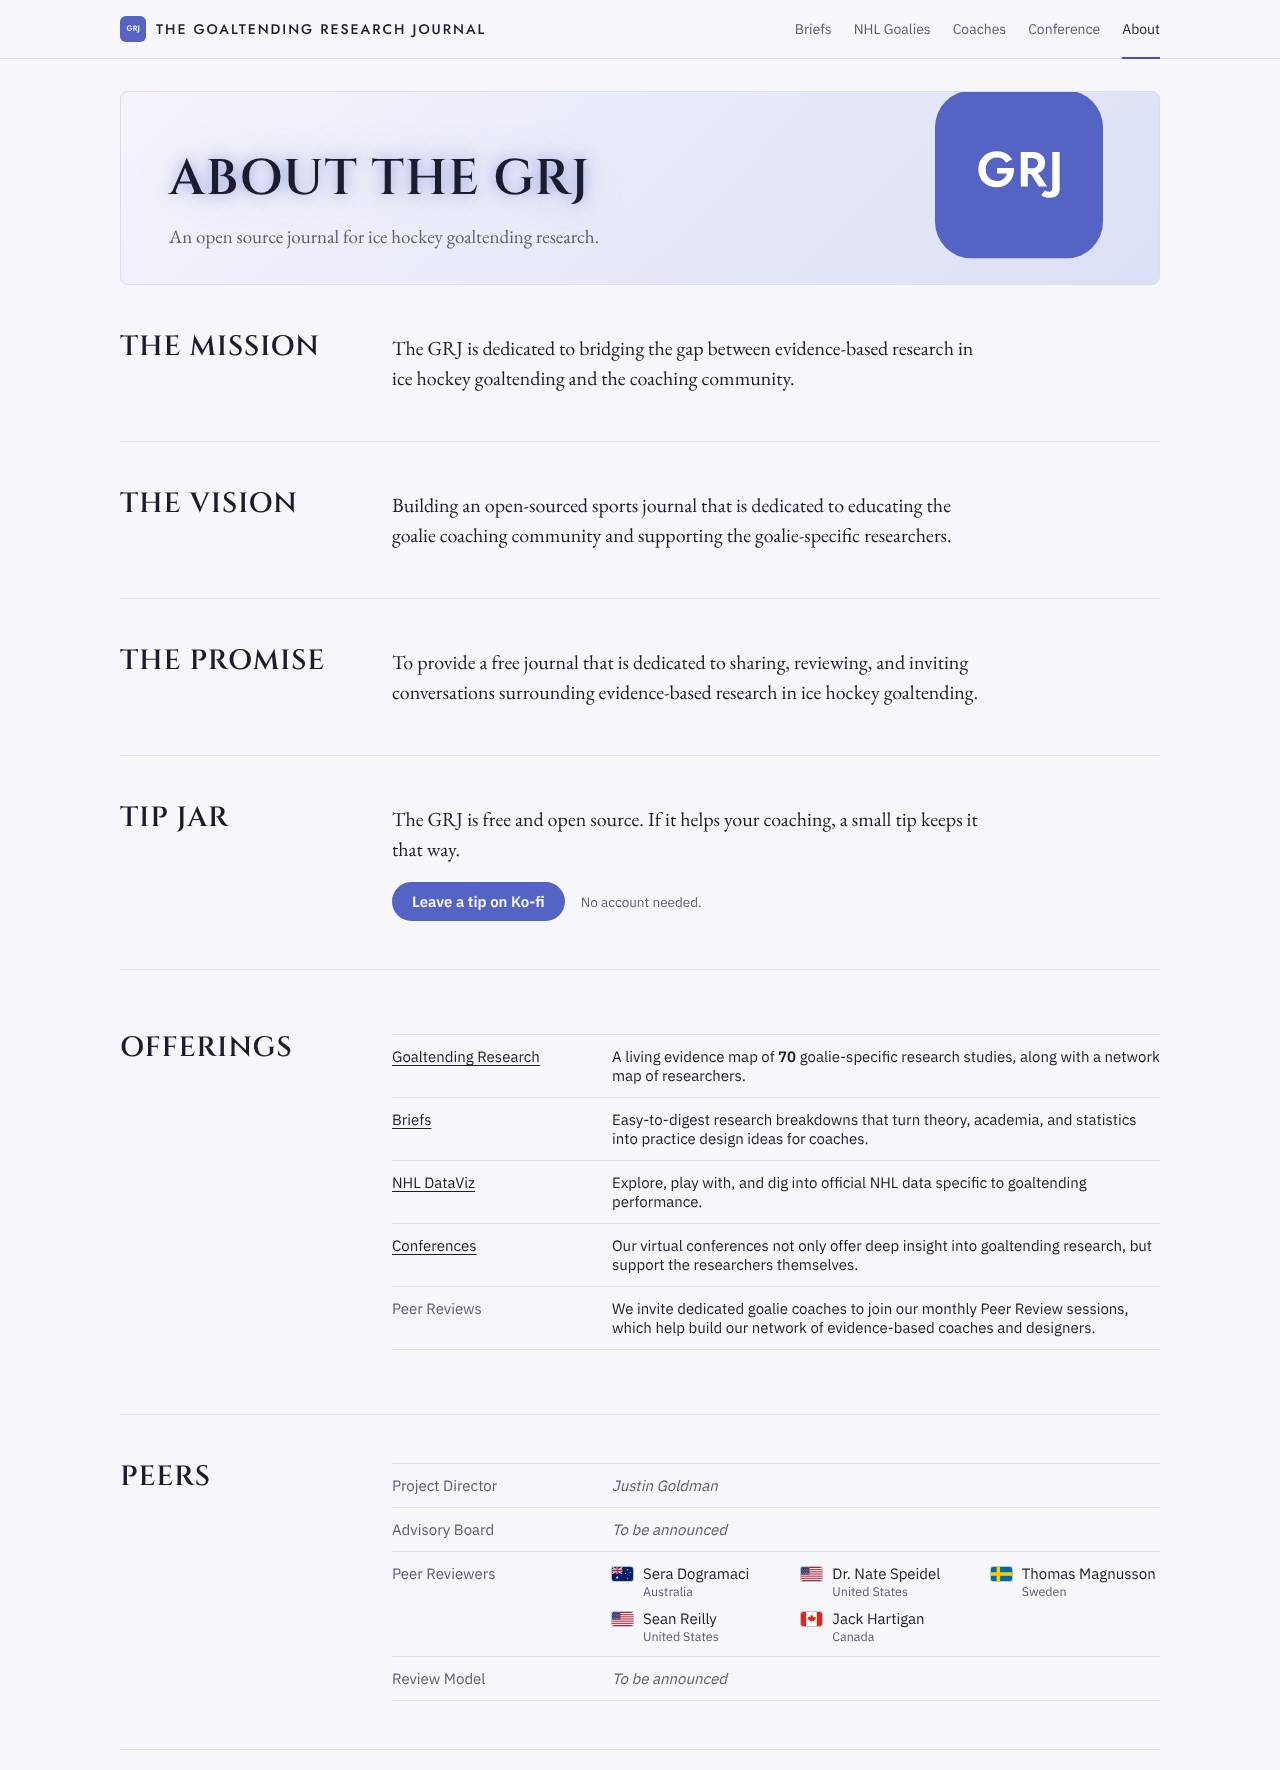
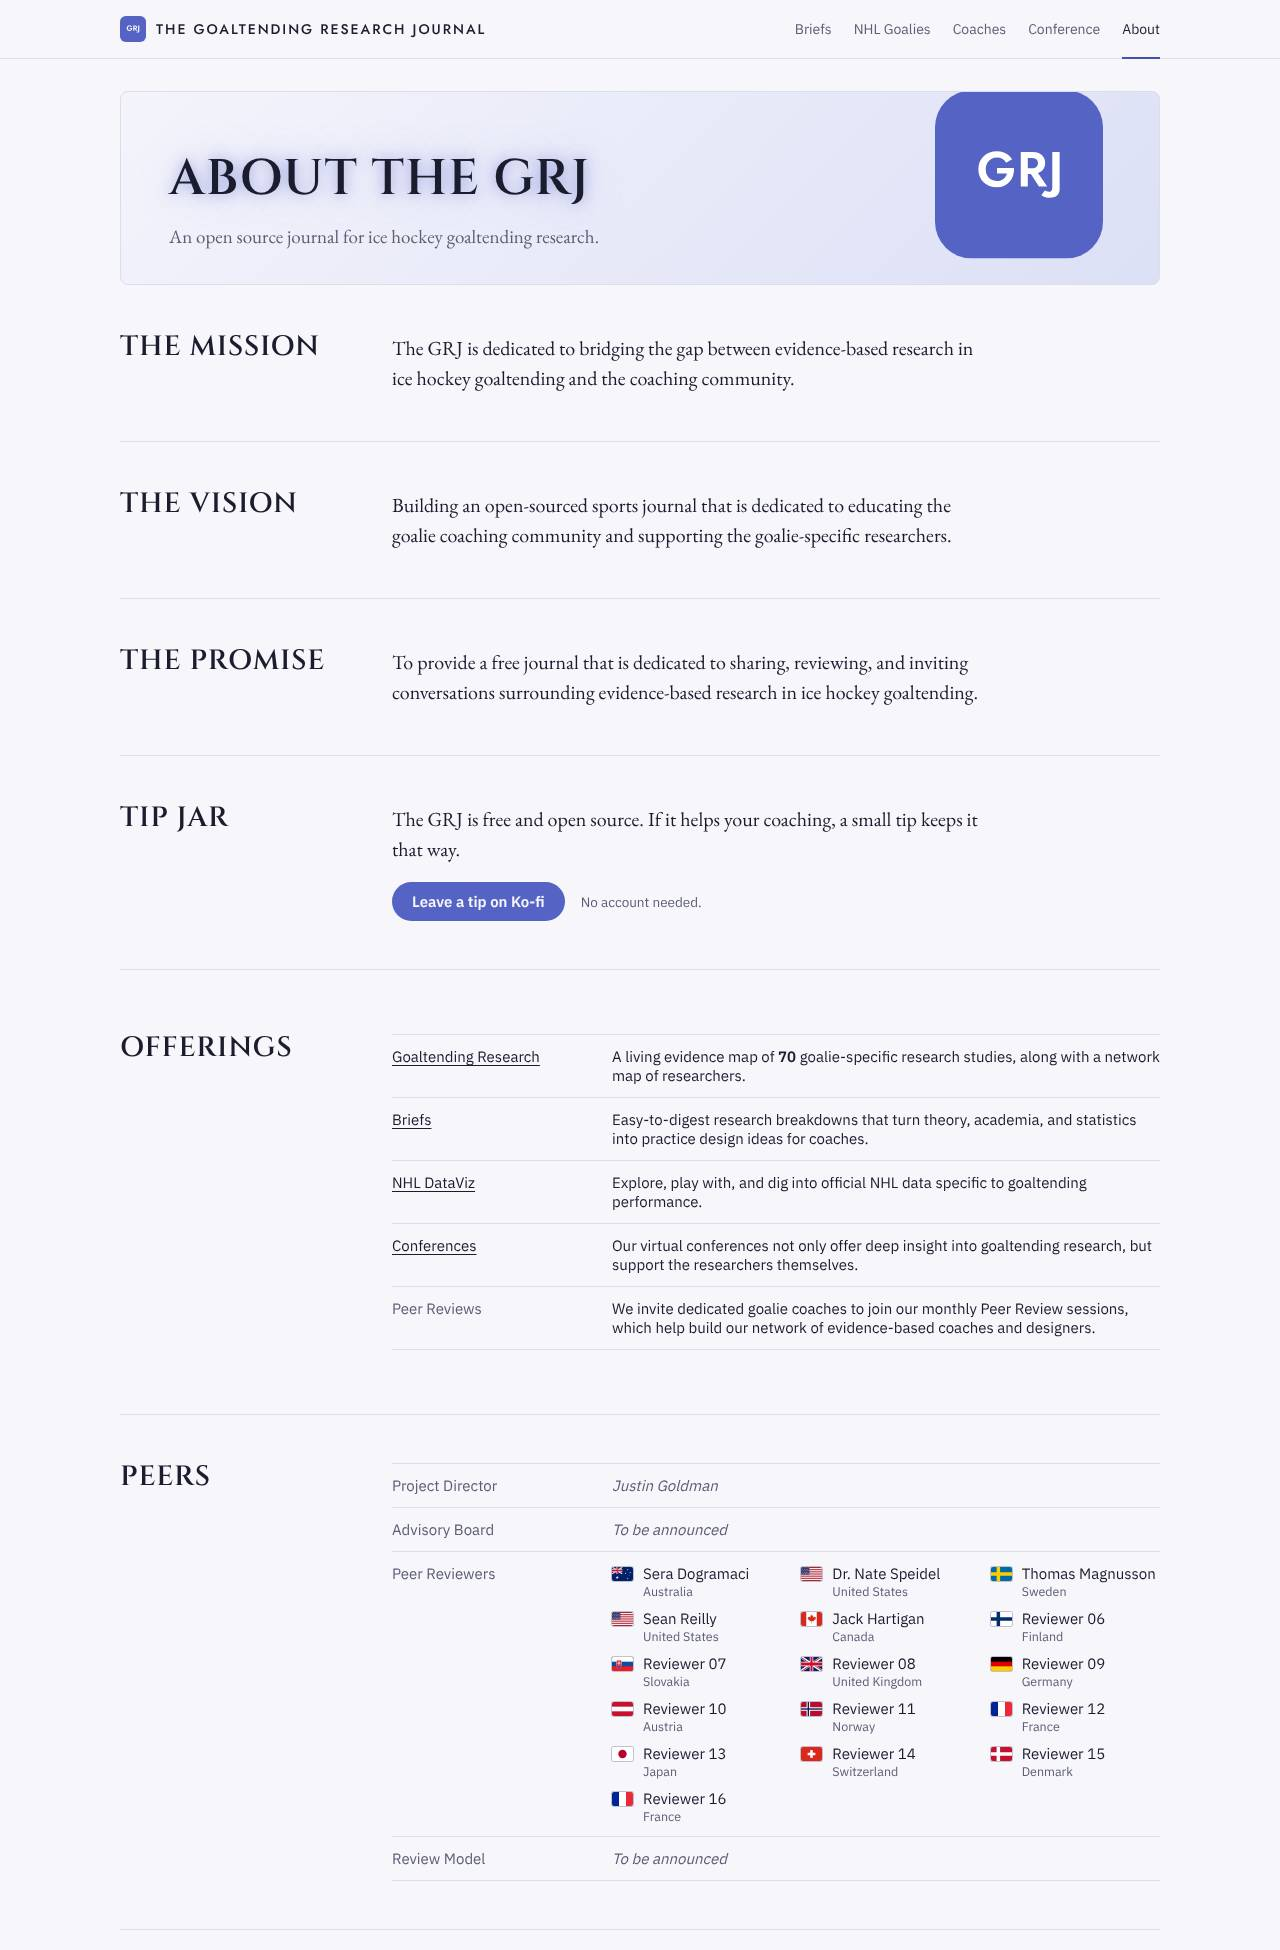
About: keep the placeholder reviewers and flags beside the five named ones
Claude-Session: https://claude.ai/code/session_01Y4memTcNRCe5HDjMuxoTXv

diff --git a/about.html b/about.html
@@ -258,6 +258,17 @@ footer { border-top: 1px solid var(--rule); padding-block: 28px 56px; font: 13px
             <li><img class="flag" src="flags/se.svg" alt="" width="21" height="14"><span class="rv-name">Thomas Magnusson</span><span class="rv-country">Sweden</span></li>
             <li><img class="flag" src="flags/us.svg" alt="" width="21" height="14"><span class="rv-name">Sean Reilly</span><span class="rv-country">United States</span></li>
             <li><img class="flag" src="flags/ca.svg" alt="" width="21" height="14"><span class="rv-name">Jack Hartigan</span><span class="rv-country">Canada</span></li>
+            <li><img class="flag" src="flags/fi.svg" alt="" width="21" height="14"><span class="rv-name">Reviewer 06</span><span class="rv-country">Finland</span></li>
+            <li><img class="flag" src="flags/sk.svg" alt="" width="21" height="14"><span class="rv-name">Reviewer 07</span><span class="rv-country">Slovakia</span></li>
+            <li><img class="flag" src="flags/gb.svg" alt="" width="21" height="14"><span class="rv-name">Reviewer 08</span><span class="rv-country">United Kingdom</span></li>
+            <li><img class="flag" src="flags/de.svg" alt="" width="21" height="14"><span class="rv-name">Reviewer 09</span><span class="rv-country">Germany</span></li>
+            <li><img class="flag" src="flags/at.svg" alt="" width="21" height="14"><span class="rv-name">Reviewer 10</span><span class="rv-country">Austria</span></li>
+            <li><img class="flag" src="flags/no.svg" alt="" width="21" height="14"><span class="rv-name">Reviewer 11</span><span class="rv-country">Norway</span></li>
+            <li><img class="flag" src="flags/fr.svg" alt="" width="21" height="14"><span class="rv-name">Reviewer 12</span><span class="rv-country">France</span></li>
+            <li><img class="flag" src="flags/jp.svg" alt="" width="21" height="14"><span class="rv-name">Reviewer 13</span><span class="rv-country">Japan</span></li>
+            <li><img class="flag" src="flags/ch.svg" alt="" width="21" height="14"><span class="rv-name">Reviewer 14</span><span class="rv-country">Switzerland</span></li>
+            <li><img class="flag" src="flags/dk.svg" alt="" width="21" height="14"><span class="rv-name">Reviewer 15</span><span class="rv-country">Denmark</span></li>
+            <li><img class="flag" src="flags/fr.svg" alt="" width="21" height="14"><span class="rv-name">Reviewer 16</span><span class="rv-country">France</span></li>
           </ul>
         </dd></div>
         <div><dt>Review Model</dt><dd class="tba">To be announced</dd></div>
